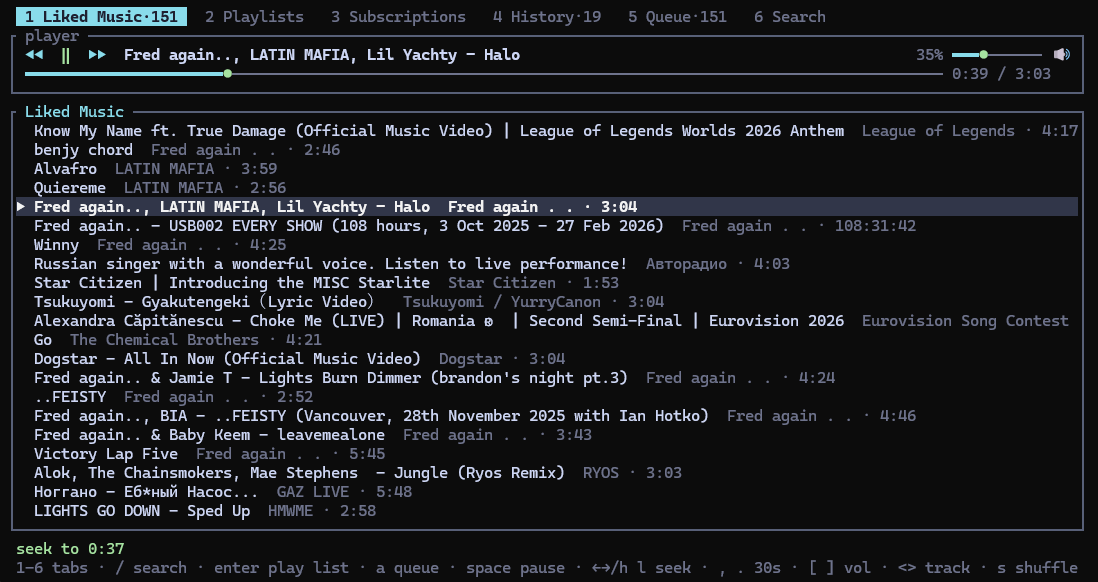
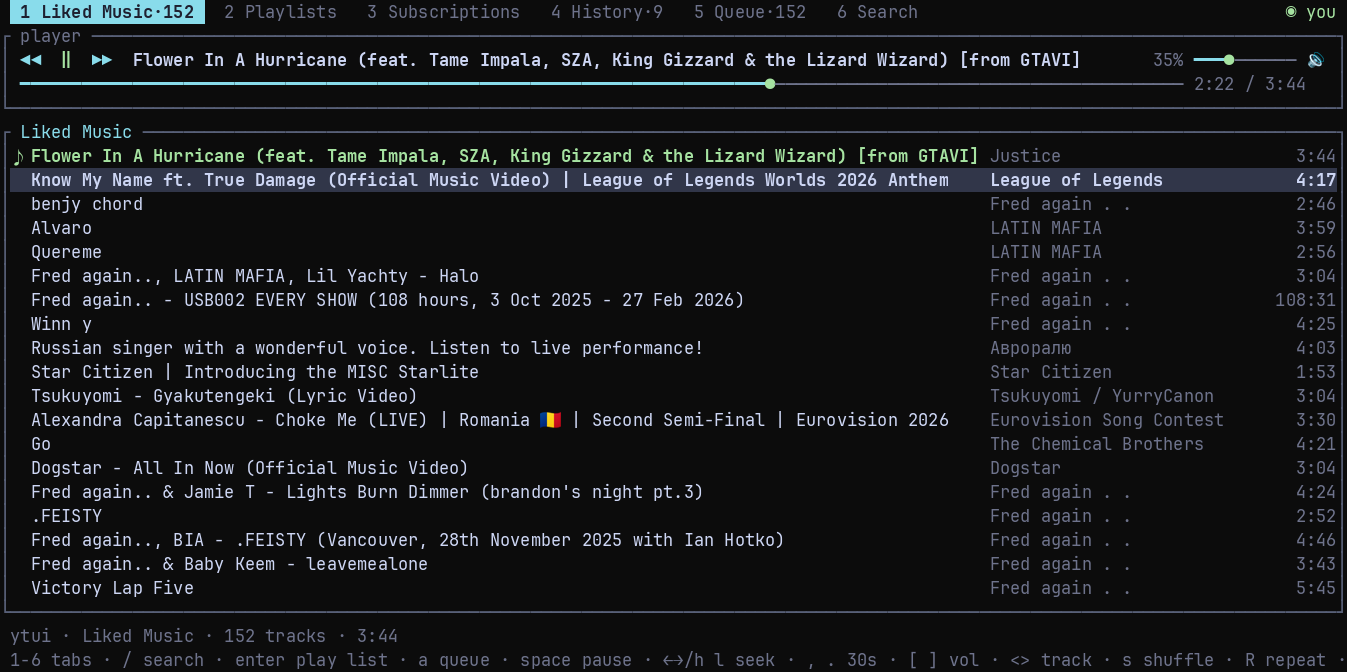
refresh the screenshot and keep the hours of a very long track visible

Changed region(s): [[0.0, 0.0, 1.0, 1.0]]

diff --git a/src/ui.rs b/src/ui.rs
@@ -545,7 +545,14 @@ fn row_line(
         Span::styled(fit(&artist, cols.artist), Style::new().fg(DIM)),
     ];
     if cols.dur > 0 {
-        let time = e.duration_str();
+        let mut time = e.duration_str();
+        if time.width() > cols.dur {
+            // "108:31:42" does not fit the column. The seconds matter less
+            // than the hours, so drop them rather than cut the tail off.
+            if let Some((hm, _)) = time.rsplit_once(':') {
+                time = hm.to_string();
+            }
+        }
         let time = if time.width() > cols.dur {
             truncate(&time, cols.dur)
         } else {
@@ -924,6 +931,24 @@ mod tests {
         assert_eq!(note.width(), 1, "one cell");
         assert!(!(0x1F000..=0x1FAFF).contains(&cp), "not an emoji codepoint");
         assert_eq!(ICON_NOW.width(), 2, "marker plus its gap");
+    }
+
+    /// A 108-hour stream must still show its hours: the seconds are what get
+    /// dropped when the time does not fit the column.
+    #[test]
+    fn long_durations_keep_their_hours() {
+        let e = Entry {
+            id: "x".into(),
+            title: "t".into(),
+            channel: "c".into(),
+            duration: 390_702,
+            url_override: String::new(),
+        };
+        let cols = columns(60, true);
+        let line = row_line(&e, false, false, false, &cols, Duration::ZERO);
+        let text: String = line.spans.iter().map(|s| s.content.as_ref()).collect();
+        assert!(text.ends_with(" 108:31"), "{text:?}");
+        assert_eq!(text.width(), 60);
     }
 
     /// A windowed list only builds the rows on screen, but the selection must
